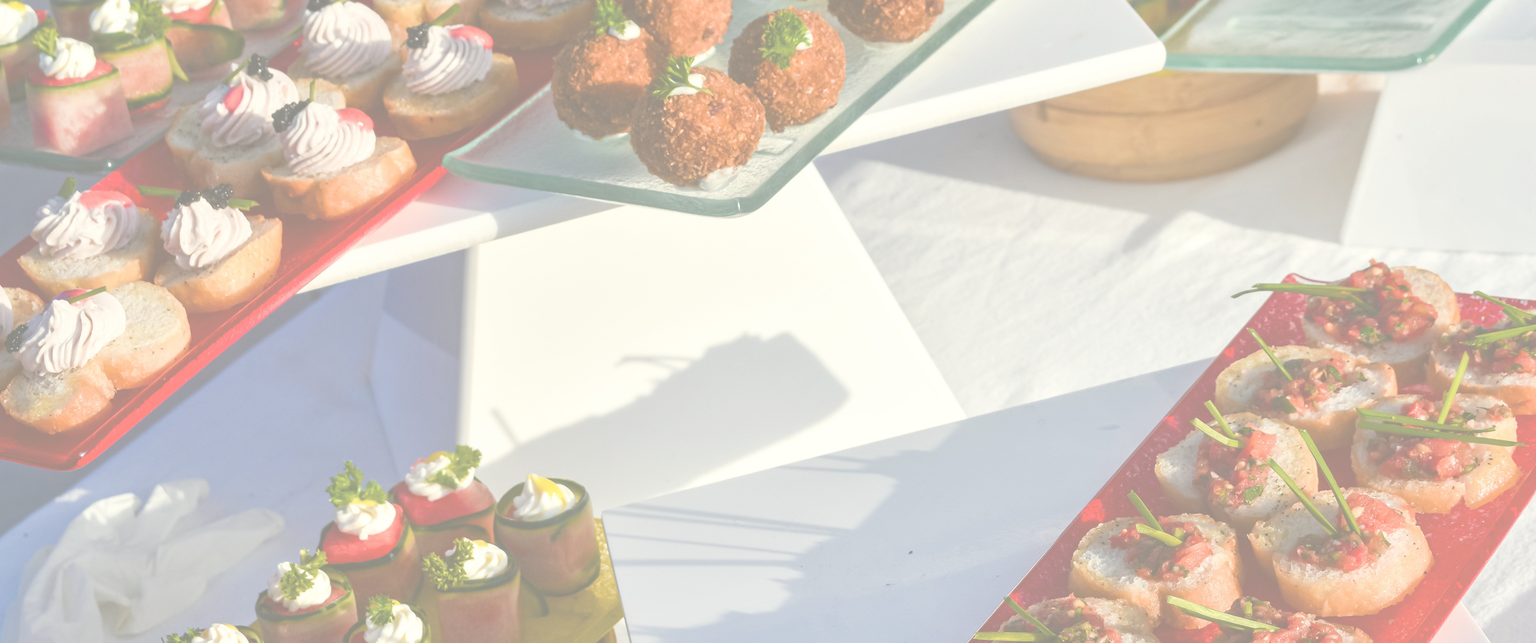
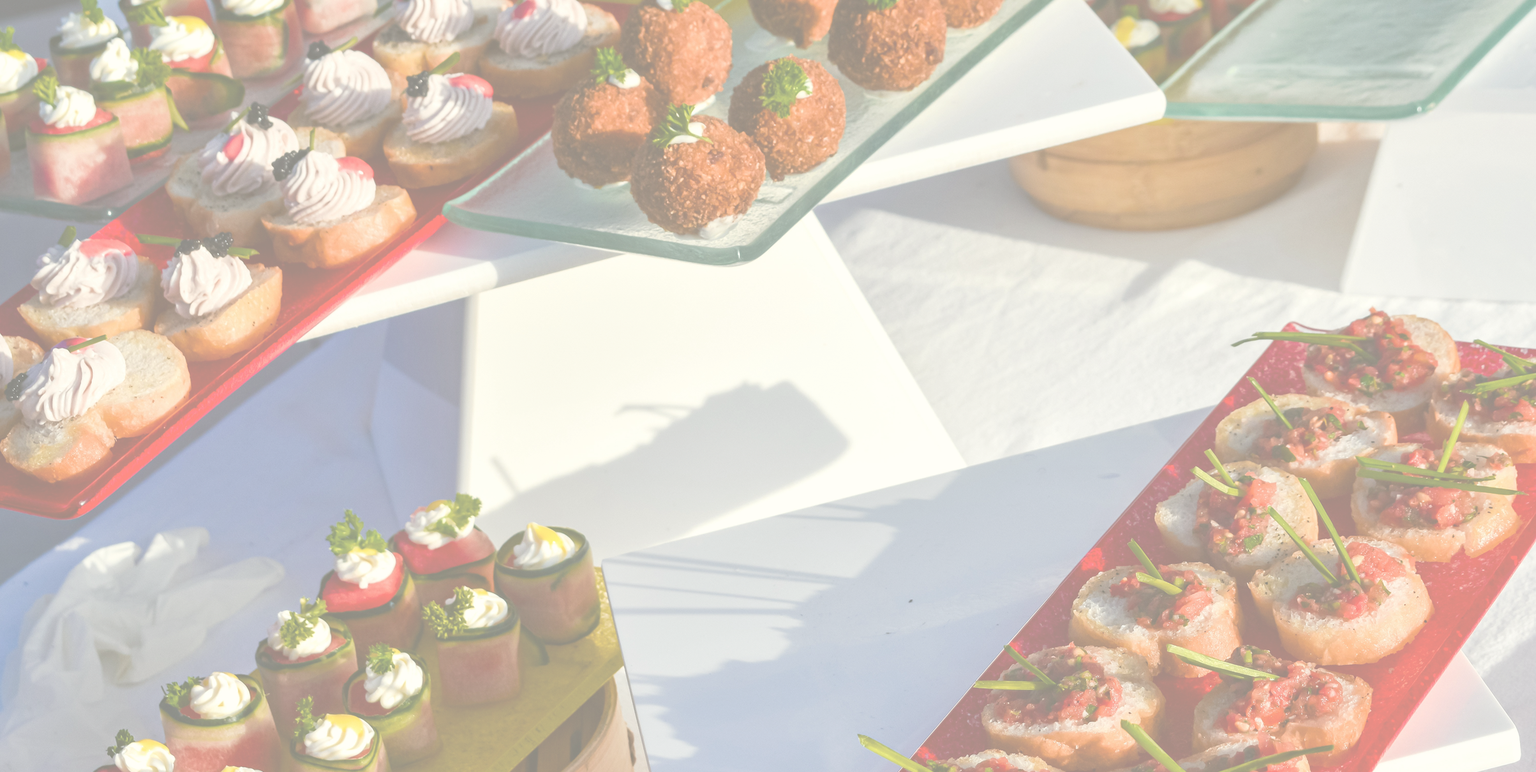
changed img

diff --git a/contact_us.html b/contact_us.html
@@ -45,8 +45,7 @@
             </div>
 
             <div class="hero_text other_color">
-                <h2>Contact Us</h2>
-                <p>We'd love to hear from you!</p>
+                <h2>We'd love to hear from you!</h2>
             </div>
 
         </div>

diff --git a/css/contact_us.css b/css/contact_us.css
@@ -1,5 +1,5 @@
 /* ---------------------------------- Hero Section -------------------------------- */
-.other_color h2, p{
+.other_color h2 {
     color: #67704C;
 }
 
